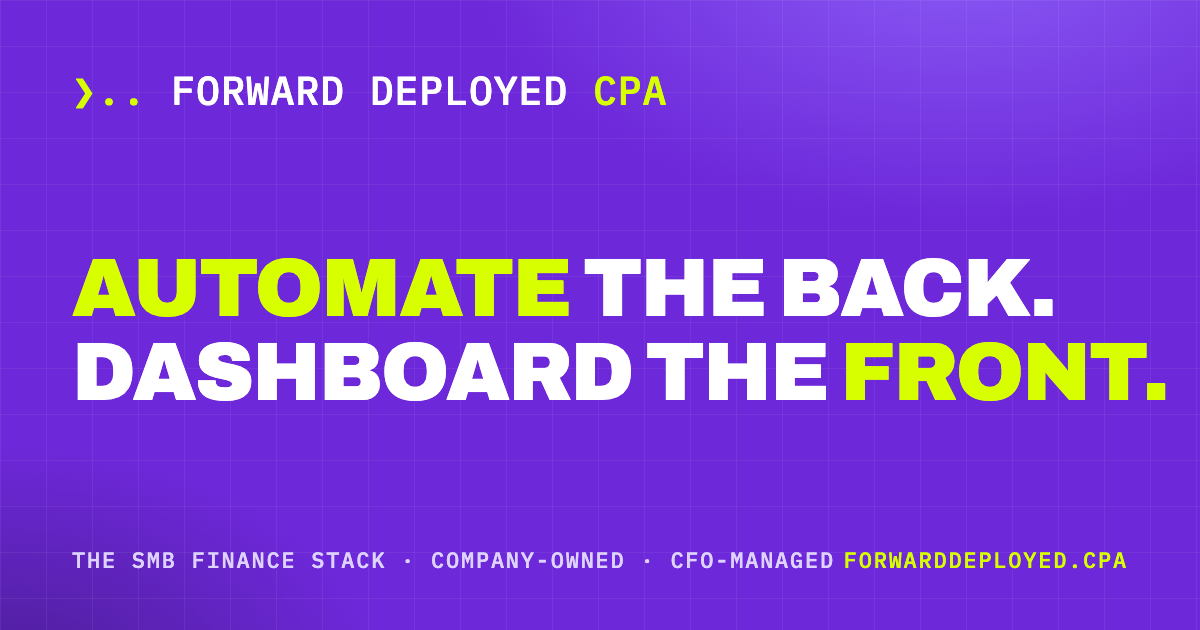
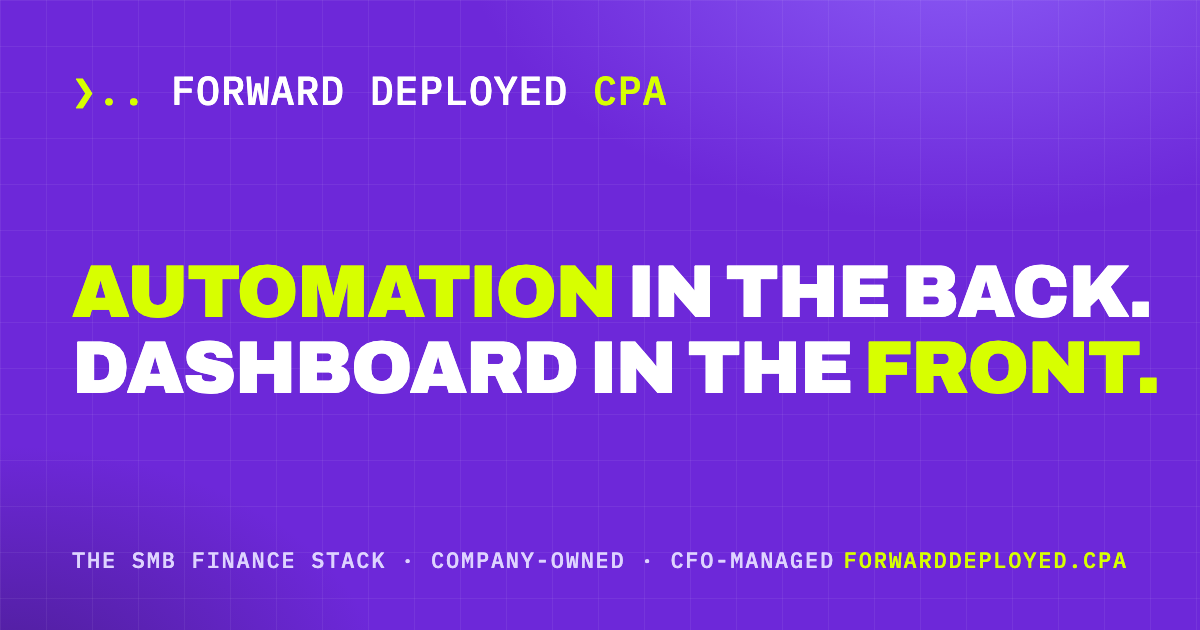
Change SMB stack tagline to 'Automation in the back. Dashboard in the front.'

Changed region(s): [[0.0617, 0.3921, 0.9558, 0.5127], [0.0617, 0.5429, 0.9867, 0.6333]]

diff --git a/builds/smb-stack.html b/builds/smb-stack.html
@@ -10,7 +10,7 @@
 <meta property="og:type" content="article">
 <meta property="og:site_name" content="Forward Deployed CPA">
 <meta property="og:title" content="The SMB Finance Stack — reference architecture">
-<meta property="og:description" content="Automate the back. Dashboard the front. The finance tech infrastructure for $5–30M companies — company-owned, managed by a fractional controller/CFO.">
+<meta property="og:description" content="Automation in the back. Dashboard in the front. The finance tech infrastructure for $5–30M companies — company-owned, managed by a fractional controller/CFO.">
 <meta property="og:url" content="https://www.forwarddeployed.cpa/builds/smb-stack.html">
 <meta property="og:image" content="https://www.forwarddeployed.cpa/assets/img/og-smb-stack.png">
 <meta name="twitter:card" content="summary_large_image">
@@ -169,7 +169,7 @@
   <div class="wrap">
     <p class="mono"><a href="index.html" class="muted" style="text-decoration:none">❮ back to builds</a></p>
     <span class="eyebrow" style="margin-top:.8rem">builds · the smb platform</span>
-    <h1 style="text-transform:none;letter-spacing:-.025em;margin-top:.7rem;"><span class="lime">Automate</span> the back.<br>Dashboard the <span class="lime">front.</span></h1>
+    <h1 style="text-transform:none;letter-spacing:-.025em;margin-top:.7rem;"><span class="lime">Automation</span> in the back.<br>Dashboard in the <span class="lime">front.</span></h1>
     <p class="lead">The tech infrastructure for a $5–30M company's finance function — transactions automated at the source, leadership dashboards built with AI on top. Your company owns every account; a fractional controller/CFO runs the whole thing for you.</p>
   </div>
 </section>
